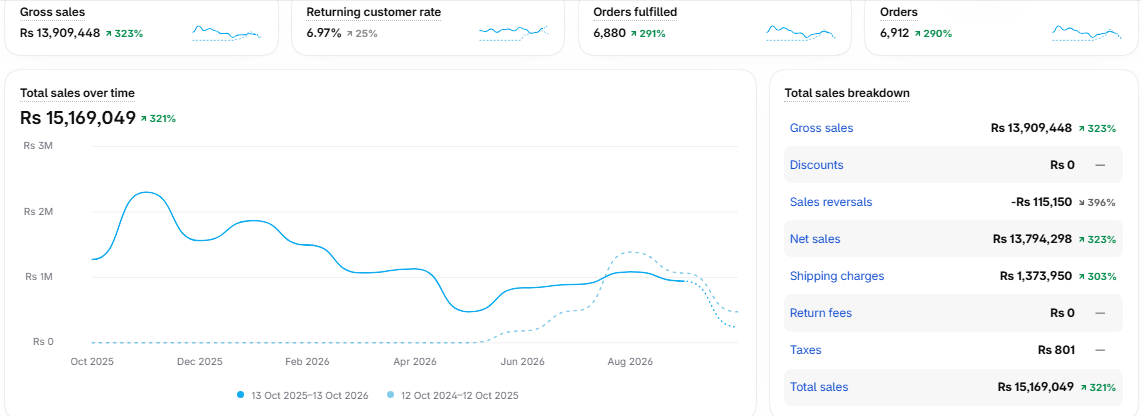
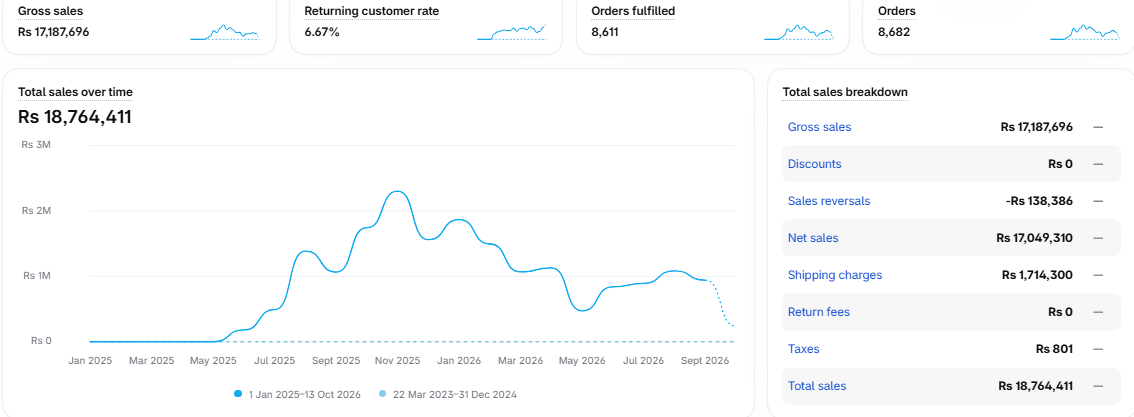
HerChoice: all-time Shopify report matched to all-time Meta spend
Claude-Session: https://claude.ai/code/session_012otcqTNThbyADZnGcJjd2R

diff --git a/index.html b/index.html
@@ -293,13 +293,13 @@ footer.site{background:#070C17;border-top:1px solid var(--line);padding-block:44
           </div>
         </article>
         <article class="case feature rev">
-          <div class="frame"><div class="bar"><i></i><i></i><i></i></div><a class="shotlink" href="herchoice-ads.png" target="_blank" rel="noopener"><img class="shotimg" src="herchoice-crop.png" alt="Meta Ads Manager showing HerChoice purchase campaigns" width="1230" height="770" loading="lazy"><span class="tap">Meta Ads Manager, all time (tap to enlarge)</span></a><a class="shotlink second" href="herchoice-sales.png" target="_blank" rel="noopener"><img class="shotimg" src="herchoice-sales.png" alt="Shopify analytics for HerChoice showing PKR 13.9M gross sales and 6,912 orders" width="1145" height="416" loading="lazy"><span class="tap">Shopify sales report, last 365 days (tap to enlarge)</span></a></div>
+          <div class="frame"><div class="bar"><i></i><i></i><i></i></div><a class="shotlink" href="herchoice-ads.png" target="_blank" rel="noopener"><img class="shotimg" src="herchoice-crop.png" alt="Meta Ads Manager showing HerChoice purchase campaigns" width="1230" height="770" loading="lazy"><span class="tap">Meta Ads Manager, all time (tap to enlarge)</span></a><a class="shotlink second" href="herchoice-sales.png" target="_blank" rel="noopener"><img class="shotimg" src="herchoice-sales.png" alt="Shopify analytics for HerChoice showing PKR 17.2M gross sales and 8,682 orders" width="1134" height="417" loading="lazy"><span class="tap">Shopify sales report, all time (tap to enlarge)</span></a></div>
           <div class="body">
             <div><h3>HerChoice</h3><span class="tag">Women's handbags</span></div>
             <dl>
               <div><dt>Challenge</dt><dd>They had the product but no proven way to sell it online.</dd></div>
               <div><dt>What I did</dt><dd>Started their paid ads from zero, tested creatives and audiences, found what was profitable, then scaled it.</dd></div>
-              <div><dt>Result</dt><dd><b>PKR 13.9M in gross sales from 6,912 orders in the last 365 days</b> (Shopify).<br>Meta Ads Manager, all time: 11,804 purchases from Rs4.18M ad spend, 5.59 average ROAS.</dd></div>
+              <div><dt>Result</dt><dd><b>PKR 17.2M in gross sales from 8,682 orders</b> (Shopify, all time).<br>Ad spend: Rs4.18M (Meta Ads Manager, all time), about 4.1x in sales for every rupee spent.</dd></div>
             </dl>
           </div>
         </article>
